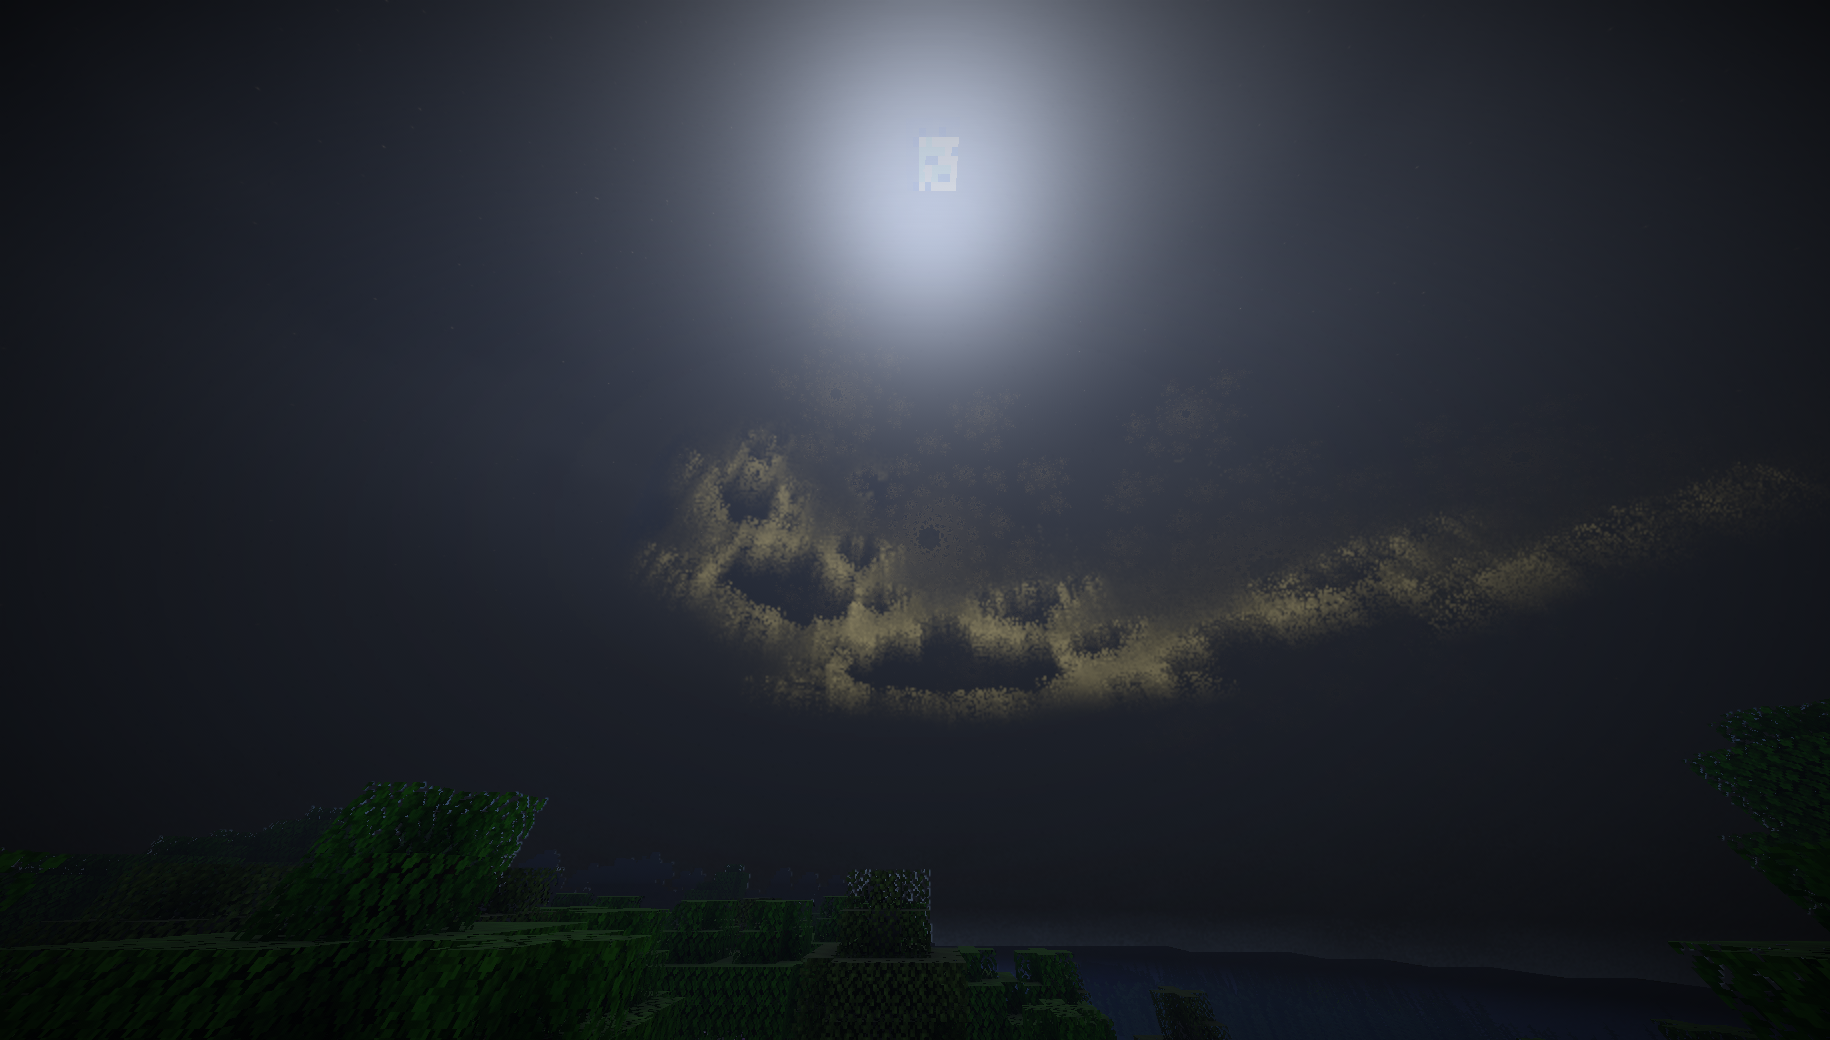
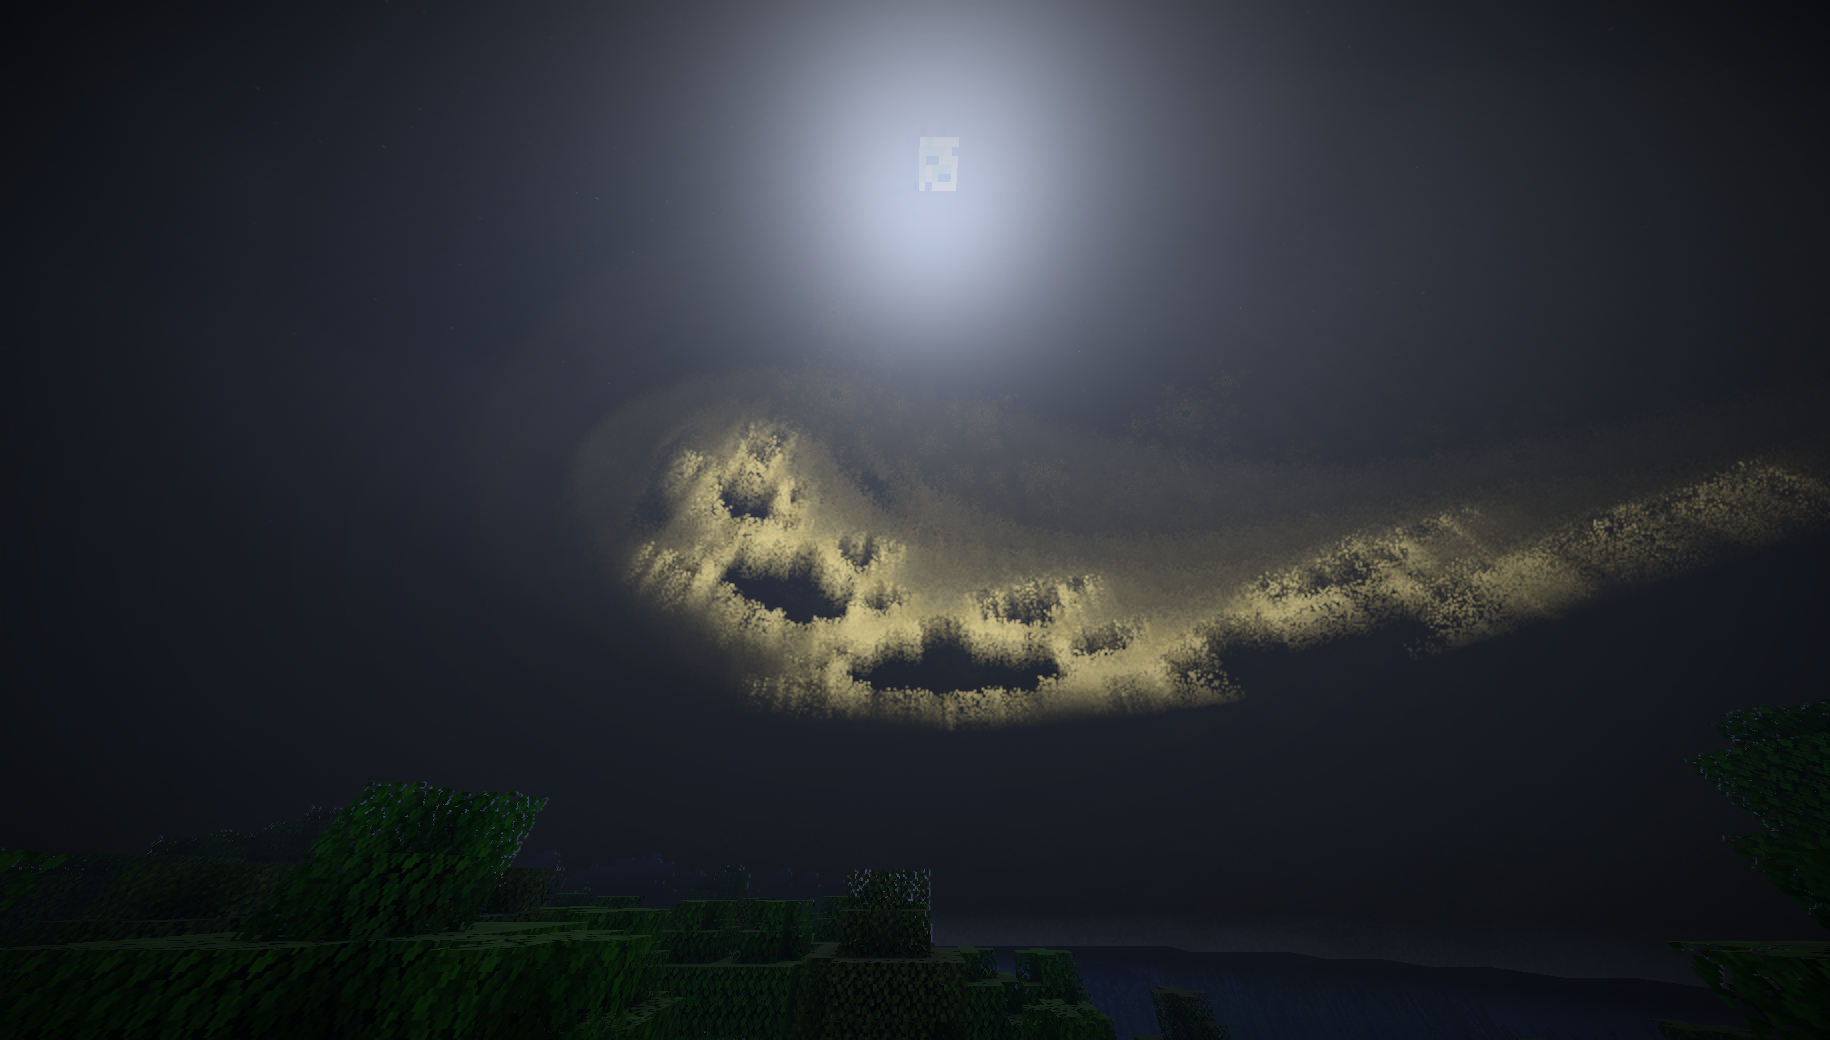
06: peso de la luz de la cortina como en Vulpe, vistas de depuración de conos y ventana
La densidad con la que se pesa la luz de cada muestra está en unidades de niebla
de Vulpe; con nuestra extinción física el peso no pasaba de ~0,15 y solo se veía
un ribete en el borde de la figura. Se multiplica para ese peso: la cortina
brilla en toda su altura y en el interior de la figura. Opción de depuración con
«Aurora: conos» (rojo por despeje) y «Aurora: sin ventana». La ventana sigue sin
notarse: duda a la especificación.

Changed region(s): [[0.3426, 0.4, 0.9967, 0.7077]]

diff --git a/docs/efectos/aurora.md b/docs/efectos/aurora.md
@@ -47,9 +47,31 @@ analíticas, `rui_valor2_derivadas`, para la distancia a lo largo de la línea),
 octavas inclinado con la altura y movido con el día, ventana ×2 sumada sin pesarla por la transmitancia.
 La normal de la línea sale de diferencias del canal a entre texeles vecinos del mapa.
 
+### Peso de la luz
+
+La especificación suma la luz de cada muestra pesada por `1 − e^(−densidad·(1 − despeje)·largo)`, con la
+densidad de la niebla **en las unidades de Vulpe**. Con nuestra extinción física de noche (≈0,0076 por
+bloque) ese peso no pasaba de ~0,15 y la luz solo salía donde el rayo recorre mucho velo: un ribete en el
+borde de la figura, con el interior oscuro y sin altura (lo vio el gestor). Se multiplica la extinción por
+`VOL_AURORA_DENSIDAD` = 25 solo para ese peso: satura casi en cada muestra, como en Vulpe, y la cortina brilla
+en toda su altura con el color del mapa en ese punto (también el interior de la figura).
+
 **Escala de la luz:** el mapa trae la radiancia del fractal del cielo (muy baja: del orden de las estrellas
-tenues); la emisión es esa × intensidad 600 × 0,5 (`ADP_AURORA_ESCALA`) × el ajuste del usuario. Con
-0,01, la de la especificación tomada literal, no se veía nada en nuestra escala de luz; 0,5 afinado a ojo.
+tenues); la emisión es esa × intensidad 600 × 0,5 (`ADP_AURORA_ESCALA`) × el ajuste del usuario. Con 0,01, la
+de la especificación tomada literal, no se veía nada en nuestra escala de luz; 0,5 afinado a ojo.
+
+### Ventana
+
+La ventana suma el color del mapa en la dirección de vista; ese color es la radiancia del fractal del cielo y
+sumado tal cual no se notaba: se multiplica por `VOL_AURORA_VENTANA_ESCALA` = 12. **Aun así no se aprecia**
+(diferencia media entre «Aurora: sin ventana» y la normal: 2,7/255, casi todo ruido). Duda para A: a través
+de un cono la dirección de vista cae en zonas del disco sin fractal; ¿el color de la ventana es el del mapa en
+la dirección de vista o en el punto del cono?
+
+### Depuración
+
+Dos vistas en la opción de depuración del pack (como pide la especificación): «Aurora: conos» suma rojo
+proporcional al despeje de cada muestra; «Aurora: sin ventana» quita la ventana.
 
 ## Opciones
 
@@ -63,11 +85,11 @@ Noche mirando la figura (1830×1040, RTX 3050 Ti portátil): 6,09 ms de GPU con 
 
 ## Visto y no visto
 
-- **Visto:** la luz con la forma y el tono del fractal dentro de la niebla nocturna, donde está la figura (al
-  sur con la semilla 8), con huecos; nada al norte (sin figura); de día no corre.
-- **Diferencia con la referencia** (`ruidov_noche.png`): allí son **cortinas verticales** con vetas que bajan
-  desde las figuras; aquí se lee más como una **lámina horizontal** brillante con la silueta del fractal. Sin
-  resolver: puede ser la escala de la luz frente a la del borde superior, el ancho del velo visto desde el
-  suelo o la poca niebla de la franja (σ ≈ 0,0076).
-- **No visto:** la ventana al cielo de forma clara (los huecos se ven oscuros), el despeje en detalle con la
-  depuración de conos (no implementada) y el suelo medido del mod nativo.
+- **Visto, con el peso corregido:** la luz llena el cuerpo de las figuras (relleno y filamentos), no solo el
+  borde. Con la semilla 3 (varias figuras, algunas altas) la aurora ocupa buena parte del cielo y se ven las
+  cortinas verticales como rayas que convergen hacia arriba vistas desde abajo (`aurora-semilla3*.png`). Con
+  la semilla 8 (la de por defecto, una figura cerca del horizonte) la huella sobre el velo, que es un plano a
+  200–300 bloques de altura, se ve muy escorzada y se lee más como una lámina (`aurora-sur.png`).
+- **Conos** (`aurora-conos.png`): zonas y rayos rojos que bajan desde tramos de la línea del fractal, como en
+  `dbg_conos.png`.
+- **No visto:** la ventana al cielo (ver §Ventana) y el suelo medido del mod nativo.

diff --git a/docs/observaciones-del-gestor.md b/docs/observaciones-del-gestor.md
@@ -65,3 +65,25 @@ Respuestas de A en la especificación (commit 9aa2fa7):
   preferencia: aceptarlo.
 
 Las especificaciones 06, 07 y 08 han pasado la revisión del gestor.
+
+## 2026-11-02 — revisión del 06 (aurora)
+
+La rugosidad del 03 queda bien cerrada; el comprobador de contaminación sigue a 0.
+
+Lo que se ve (`hoja-aurora.png` frente a `referencias/ruidov_noche.png`):
+- En la referencia la luz llena **el cuerpo de la figura** (filamentos y textura fina dentro) y cuelgan
+  **cortinas altas** (de altura en pantalla parecida a la anchura de la figura) con **vetas verticales**.
+- En la nuestra: una franja estrecha que sigue el **borde** de la silueta, como un ribete, con el interior
+  oscuro; sin extensión vertical ni vetas.
+- El dorado frente al gris es normal (la referencia lleva el aislamiento de color del 13).
+
+Partes de la especificación que el gestor cree incumplidas: el aspecto y el orden de brillo de arriba abajo;
+qué guarda el rgb del mapa (el color en el interior de la figura, no solo en la línea); §3–4, de qué depende la
+emisión de un punto frente a dónde la pone el gancho; y hacer las dos comprobaciones de las líneas 32–35 (conos
+en rojo y sin/con ventana) con capturas en la hoja.
+
+Dato del motor (especificación 16, comprobado por el gestor en el renderizador): la etapa `weather` no escribe
+en `scene_depth`; la niebla de post no ve la lluvia.
+
+A ha terminado las 16 especificaciones, todas revisadas. Recomendación del gestor: tras la aurora, el 09
+(TAA), que limpia el grano del 04, el 05 y el 06.
